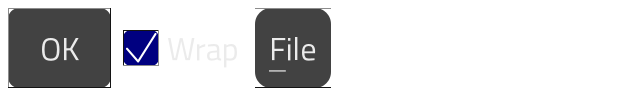
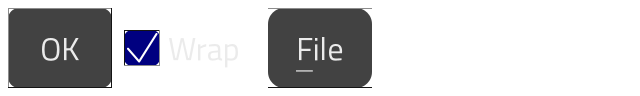
fix: label paddings scale, and content-sized widgets keep whole pixels
- Tab widths, menu titles and check box / radio / switch labels added
  fixed pixel padding (+28, +20, +8+4) that did not scale: at 2x they were
  cramped. They scale with the look now.
- Layout rounding could shave a fraction off a widget sized exactly to its
  content (a 54.17px label got 54px and elided its text, as Settings'
  "Corners" did). Flex and Grid now round each child's measured size up
  to whole pixels, and a whole-pixel width survives rounding wherever it
  lands.
- Settings' appearance options sit in a two-row grid, with the Animations
  switch beside Icons, instead of one cramped row.

diff --git a/internal/demo/settings.go b/internal/demo/settings.go
@@ -6,7 +6,6 @@ import (
 
 	"github.com/codemodify/uitoolkit"
 	"github.com/codemodify/uitoolkit/app"
-	"github.com/codemodify/uitoolkit/layout"
 	"github.com/codemodify/uitoolkit/style"
 	"github.com/codemodify/uitoolkit/widget"
 	"github.com/codemodify/uitoolkit/widgets"
@@ -290,14 +289,6 @@ func (s *settingsState) themesPage(status *widgets.StatusBar, stage func(style.A
 		next.Icons = sets[i].Name
 		stage(next)
 	})
-	options := widgets.NewRow(
-		widgets.NewLabel("Corners"), corners,
-		widgets.NewLabel("Icon size"), sizes,
-		widgets.NewLabel("Icons"), icons,
-	).WithGap(8).WithAlign(layout.AlignCenter)
-	options.AddFlex(corners, 1)
-	options.AddFlex(sizes, 1)
-	options.AddFlex(icons, 1)
 	// Hover fades, the default button's pulse, busy bars: off for users
 	// who get unwell from motion (GTK's gtk-enable-animations).
 	motion := widgets.NewSwitch("Animations", !s.staged.ReduceMotion, func(on bool) {
@@ -305,8 +296,18 @@ func (s *settingsState) themesPage(status *widgets.StatusBar, stage func(style.A
 		next.ReduceMotion = !on
 		stage(next)
 	})
+	// Two rows of label / control pairs, so no label is cut short.
+	options := widgets.NewGrid()
+	options.Cols = []widgets.Track{widgets.Auto(), widgets.Flex(1), widgets.Auto(), widgets.Flex(1)}
+	options.Place(widgets.NewLabel("Corners"), 0, 0)
+	options.Place(corners, 0, 1)
+	options.Place(widgets.NewLabel("Icon size"), 0, 2)
+	options.Place(sizes, 0, 3)
+	options.Place(widgets.NewLabel("Icons"), 1, 0)
+	options.Place(icons, 1, 1)
+	options.PlaceSpan(motion, 1, 2, 1, 2)
 
-	preview := widgets.NewColumn(info, scope, options, motion).WithGap(10)
+	preview := widgets.NewColumn(info, scope, options).WithGap(10)
 	preview.AddFlex(scope, 1)
 
 	body := widgets.NewRow(browser, preview).WithGap(14)

diff --git a/layout/flex.go b/layout/flex.go
@@ -1,6 +1,10 @@
 package layout
 
-import "github.com/codemodify/paintengine2d"
+import (
+	"math"
+
+	"github.com/codemodify/paintengine2d"
+)
 
 // Child is the layout protocol a flex parent talks to.
 type Child interface {
@@ -40,7 +44,7 @@ func (f Flex) Measure(c Constraints, items []Item) paintengine2d.Point {
 			continue
 		}
 		n++
-		sz := it.Node.Measure(childConstraints(inner, f.Axis, false))
+		sz := wholePx(it.Node.Measure(childConstraints(inner, f.Axis, false)))
 		mw, cw := split(sz, f.Axis)
 		main += mw
 		if cw > cross {
@@ -85,7 +89,7 @@ func (f Flex) Arrange(bounds paintengine2d.Rect, items []Item) {
 			continue
 		}
 		n++
-		sz := it.Node.Measure(cc)
+		sz := wholePx(it.Node.Measure(cc))
 		ms = append(ms, measured{it, sz})
 		mw, _ := split(sz, f.Axis)
 		if it.Flex > 0 {
@@ -184,4 +188,12 @@ func childConstraints(parent Constraints, axis Axis, stretch bool) Constraints {
 		return Constraints{MinH: parent.MinH, MaxH: parent.MaxH, MaxW: parent.MaxW}
 	}
 	return Constraints{MinW: parent.MinW, MaxW: parent.MaxW, MaxH: parent.MaxH}
+}
+
+// wholePx rounds a measured size up to whole pixels. Components land on
+// whole pixels (layout rounding rounds each edge); a whole-pixel size keeps
+// its exact width wherever it lands, so a label measured to its text is
+// never shaved a fraction short and elided.
+func wholePx(p paintengine2d.Point) paintengine2d.Point {
+	return paintengine2d.Pt(float32(math.Ceil(float64(p.X)-1e-3)), float32(math.Ceil(float64(p.Y)-1e-3)))
 }

diff --git a/widgets/grid.go b/widgets/grid.go
@@ -1,6 +1,8 @@
 package widgets
 
 import (
+	"math"
+
 	"github.com/codemodify/paintengine2d"
 	"github.com/codemodify/uitoolkit/layout"
 	"github.com/codemodify/uitoolkit/style"
@@ -218,7 +220,7 @@ func (g *Grid) columns(avail float32) []float32 {
 	content := make([]float32, nc)
 	var spans [][3]float32
 	g.visible(func(c widget.Component, cell *GridCell) {
-		w := c.Measure(layout.Unbounded()).X
+		w := ceilPx(c.Measure(layout.Unbounded()).X)
 		if cell.ColSpan == 1 {
 			if cell.Col < nc && w > content[cell.Col] {
 				content[cell.Col] = w
@@ -249,7 +251,7 @@ func (g *Grid) rows(cols []float32, avail float32) []float32 {
 	var spans [][3]float32
 	g.visible(func(c widget.Component, cell *GridCell) {
 		cw := spanLen(cols, cell.Col, cell.ColSpan, g.ColGap)
-		h := c.Measure(layout.Constraints{MaxW: cw, MaxH: -1}).Y
+		h := ceilPx(c.Measure(layout.Constraints{MaxW: cw, MaxH: -1}).Y)
 		if cell.RowSpan == 1 {
 			if cell.Row < nr && h > content[cell.Row] {
 				content[cell.Row] = h
@@ -378,3 +380,7 @@ func (f *Form) Arrange(r paintengine2d.Rect) {
 	}
 	f.Grid.Arrange(r)
 }
+
+// ceilPx rounds a measured length up to whole pixels, so a child sized to
+// its content keeps that width after layout rounding.
+func ceilPx(v float32) float32 { return float32(math.Ceil(float64(v) - 1e-3)) }

diff --git a/widgets/menu.go b/widgets/menu.go
@@ -127,14 +127,15 @@ func (m *MenuBar) barH() float32 {
 }
 
 func (m *MenuBar) titlesWidth() float32 {
-	f := style.ControlFontOf(m.Look(), style.RoleMenu)
-	x := float32(8)
+	lk := m.Look()
+	f := style.ControlFontOf(lk, style.RoleMenu)
+	x := style.Dip(lk, 8)
 	for _, menu := range m.menus {
 		if menu == nil {
 			continue
 		}
 		label, _, _ := ParseMnemonic(menu.Title)
-		x += f.Advance(label) + 20
+		x += f.Advance(label) + style.Dip(lk, 20)
 	}
 	return x
 }
@@ -153,13 +154,14 @@ func (m *MenuBar) Measure(c layout.Constraints) paintengine2d.Point {
 func (m *MenuBar) Arrange(r paintengine2d.Rect) { m.SetBounds(r) }
 
 func (m *MenuBar) titleRects() []paintengine2d.Rect {
-	f := style.ControlFontOf(m.Look(), style.RoleMenu)
+	lk := m.Look()
+	f := style.ControlFontOf(lk, style.RoleMenu)
 	h := m.LocalBounds().Dy()
-	x := float32(4)
+	x := style.Dip(lk, 4)
 	out := make([]paintengine2d.Rect, len(m.menus))
 	for i, menu := range m.menus {
 		label, _, _ := ParseMnemonic(menu.Title)
-		tw := f.Advance(label) + 20
+		tw := f.Advance(label) + style.Dip(lk, 20)
 		out[i] = paintengine2d.XYWH(x, 0, tw, h)
 		x += tw
 	}

diff --git a/widgets/tabs.go b/widgets/tabs.go
@@ -54,15 +54,15 @@ func (t *TabBar) tabRects() []paintengine2d.Rect {
 	lk := t.Look()
 	f := style.ControlFontOf(lk, style.RoleTab)
 	h := t.LocalBounds().Dy()
-	x := float32(4)
+	x := style.Dip(lk, 4)
 	// Neighbours overlap by the look's tab overlap, so two tabs share one
 	// border line (each tab still paints only inside its own rect).
 	ov := style.TabOverlapOf(lk)
 	out := make([]paintengine2d.Rect, n)
 	for i, title := range t.Titles {
-		w := f.Advance(title) + 28
-		if w < 56 {
-			w = 56
+		w := f.Advance(title) + style.Dip(lk, 28)
+		if min := style.Dip(lk, 56); w < min {
+			w = min
 		}
 		out[i] = paintengine2d.XYWH(x, 0, w, h)
 		x += w
@@ -72,7 +72,7 @@ func (t *TabBar) tabRects() []paintengine2d.Rect {
 	}
 	// Some looks centre the strip over its page (Aqua's segmented tabs).
 	if style.LookHint(lk, style.HintTabsCentered) == 1 {
-		if shift := (t.LocalBounds().Dx() - (x + 4)) * 0.5; shift > 0 {
+		if shift := (t.LocalBounds().Dx() - (x + style.Dip(lk, 4))) * 0.5; shift > 0 {
 			for i := range out {
 				out[i] = out[i].Translate(paintengine2d.Pt(shift, 0))
 			}

diff --git a/widgets/contract_test.go b/widgets/contract_test.go
@@ -558,11 +558,11 @@ func TestMenuBarHelpNearRightEdgeFitsAboutMail(t *testing.T) {
 		_ = uitest.MountHost(h, mb, paintengine2d.XYWH(0, 0, winW, winH))
 		help := len(mb.Menus()) - 1
 		f := mb.Look().Font()
-		tx := float32(4)
+		tx := style.Dip(mb.Look(), 4)
 		var helpMinX float32
 		for i, menu := range mb.Menus() {
 			label, _, _ := widgets.ParseMnemonic(menu.Title)
-			tw := f.Advance(label) + 20
+			tw := f.Advance(label) + style.Dip(mb.Look(), 20)
 			if i == help {
 				helpMinX = tx
 			}

diff --git a/widgets/checkbox.go b/widgets/checkbox.go
@@ -41,7 +41,7 @@ func (c *Checkbox) SetChecked(v bool) {
 func (c *Checkbox) Measure(cons layout.Constraints) paintengine2d.Point {
 	lk := c.Look()
 	m := lk.Metrics()
-	w := m.Checkbox + 8 + style.ControlFontOf(lk, style.RoleCheck).Advance(c.Text) + 4
+	w := m.Checkbox + style.Dip(lk, 8) + style.ControlFontOf(lk, style.RoleCheck).Advance(c.Text) + style.Dip(lk, 4)
 	return cons.Constrain(paintengine2d.Pt(w, m.ControlH))
 }
 

diff --git a/widgets/radio.go b/widgets/radio.go
@@ -48,7 +48,7 @@ func (r *RadioButton) Measure(c layout.Constraints) paintengine2d.Point {
 	if side <= 0 {
 		side = m.Checkbox
 	}
-	w := side + 8 + style.ControlFontOf(lk, style.RoleCheck).Advance(r.Text) + 4
+	w := side + style.Dip(lk, 8) + style.ControlFontOf(lk, style.RoleCheck).Advance(r.Text) + style.Dip(lk, 4)
 	return c.Constrain(paintengine2d.Pt(w, m.ControlH))
 }
 

diff --git a/internal/uitest/golden_test.go b/internal/uitest/golden_test.go
@@ -8,8 +8,8 @@ import (
 // Locked hashes for the chrome strip. Recomputed when UITK_UPDATE_GOLDEN=1
 // prints the new values — do not silently accept a dirty-rect glyph change.
 var chromeStripHash = map[float32]uint64{
-	1: 0xfde69ea87b60058,
-	2: 0x20a0194ea3690329,
+	1: 0x2080c72771f4446c,
+	2: 0x7471a09621e25a7d,
 }
 
 func TestChromeStripGolden(t *testing.T) {

diff --git a/widgets/switch.go b/widgets/switch.go
@@ -46,7 +46,7 @@ func (s *Switch) Measure(c layout.Constraints) paintengine2d.Point {
 	if tw <= 0 {
 		tw = 42
 	}
-	w := tw + 8 + style.ControlFontOf(lk, style.RoleCheck).Advance(s.Text) + 4
+	w := tw + style.Dip(lk, 8) + style.ControlFontOf(lk, style.RoleCheck).Advance(s.Text) + style.Dip(lk, 4)
 	return c.Constrain(paintengine2d.Pt(w, m.ControlH))
 }
 
